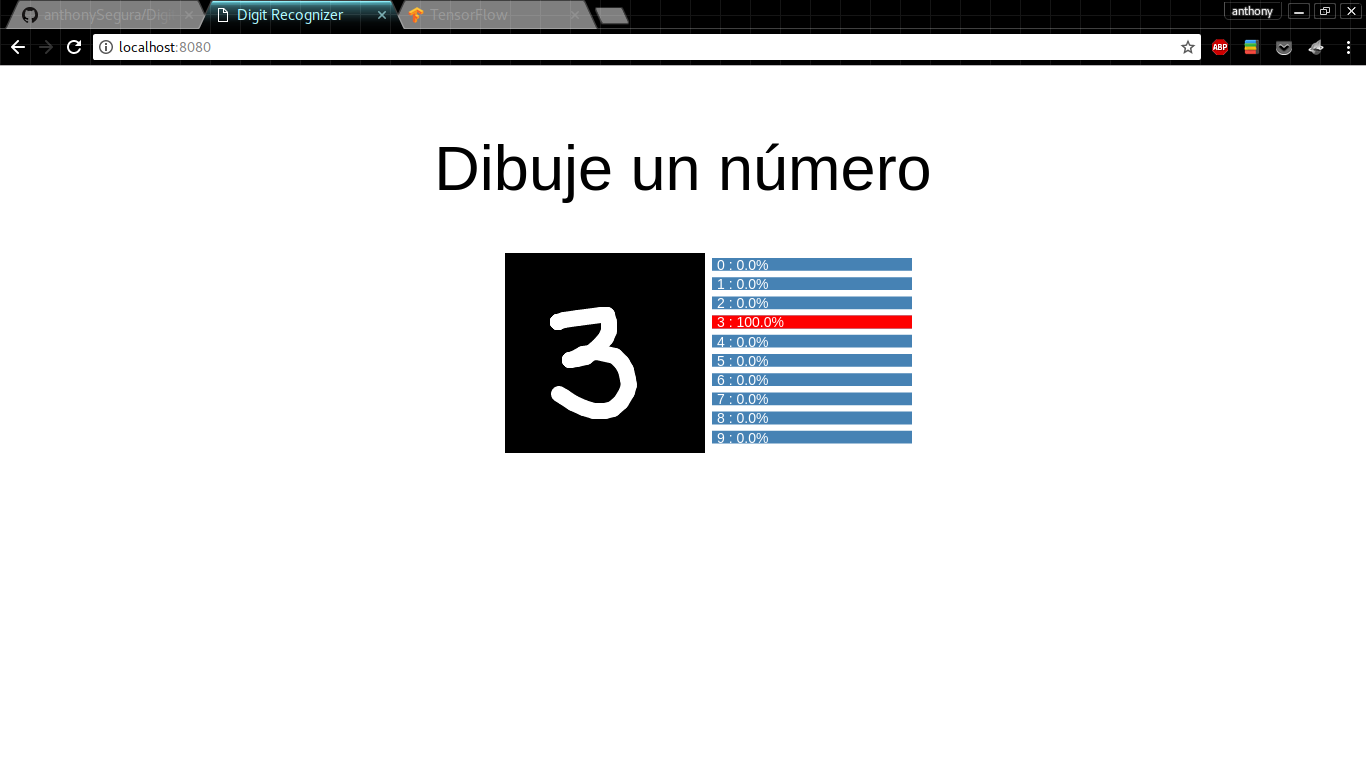
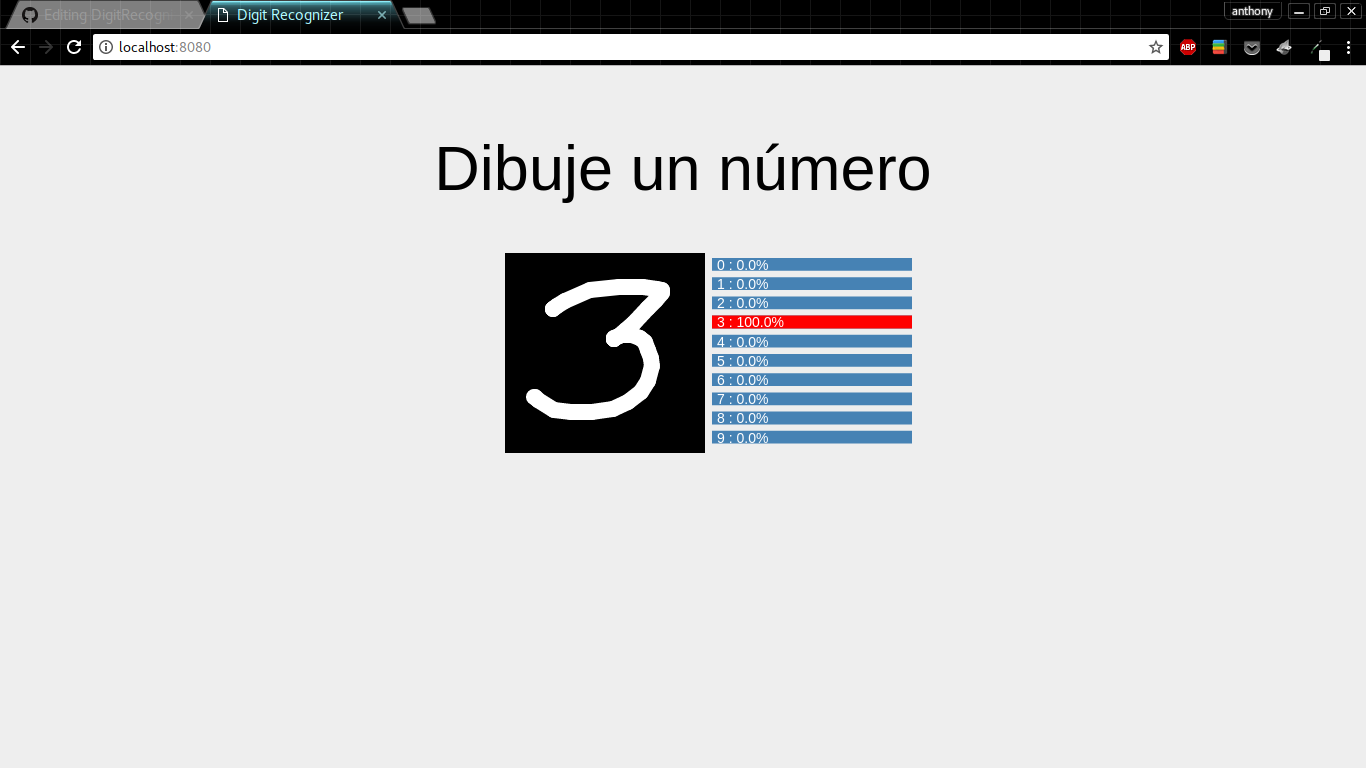
screenshots

diff --git a/templates/index.html b/templates/index.html
@@ -11,7 +11,7 @@
         <script src="{{ url_for('static', filename='main.js') }}"></script>
 
     </head>
-    <body style="background:transparent !important" class="jumbotron vertical-center">
+    <body class="jumbotron vertical-center">
         <div >
             <h1 align = "center">Dibuje un número</h1>
             <br><br>

diff --git a/static/main.js b/static/main.js
@@ -63,7 +63,7 @@ var chart = new p5(function(sketch){
 
     //Dibuja las barras del gŕafico
     sketch.plot = function(data){
-        sketch.background(255);
+        sketch.background(238,238,238);
         var width = 200, // canvas width and height
               height = 200,
               margin = 20,
